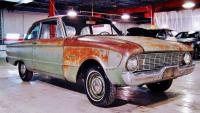
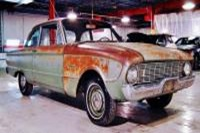
optimizing the images

diff --git a/public/js/script.js b/public/js/script.js
@@ -1,21 +1,4 @@
-const cars = [
-  { name: "adventador", path: "images/vehicles/adventador.jpg" },
-  { name: "aerocar", path: "images/vehicles/aerocar.jpg" },
-  { name: "batmobile", path: "images/vehicles/batmobile.jpg" },
-  { name: "camaro", path: "images/vehicles/camaro.jpg" },
-  { name: "crwn-vic", path: "images/vehicles/crwn-vic.jpg" },
-  { name: "delorean", path: "images/vehicles/delorean.jpg" },
-  { name: "dog-car", path: "images/vehicles/dog-car.jpg" },
-  { name: "escalade", path: "images/vehicles/escalade.jpg" },
-  { name: "fire-truck", path: "images/vehicles/fire-truck.jpg" },
-  { name: "hummer", path: "images/vehicles/hummer.jpg" },
-  { name: "mechanic", path: "images/vehicles/mechanic.jpg" },
-  { name: "model-t", path: "images/vehicles/model-t.jpg" },
-  { name: "monster-truck", path: "images/vehicles/monster-truck.jpg" },
-  { name: "mystery-van", path: "images/vehicles/mystery-van.jpg" },
-  { name: "survan", path: "images/vehicles/survan.jpg" },
-  { name: "wrangler", path: "images/vehicles/wrangler.jpg" },
-];
+
 document.querySelector(".year").innerHTML = new Date().getFullYear();
 document.querySelector(".modified").innerHTML = document.lastModified;
 const container = document.querySelector(".v-container");

diff --git a/public/css/styles.css b/public/css/styles.css
@@ -248,3 +248,9 @@ transform: scale(.95);
   text-decoration: none;
   font-weight: 600;
 }
+.inventory-detail{
+  display: grid;
+  grid-template-columns: repeat(2, auto);
+  gap: 1rem;
+  padding: 1rem;
+}
